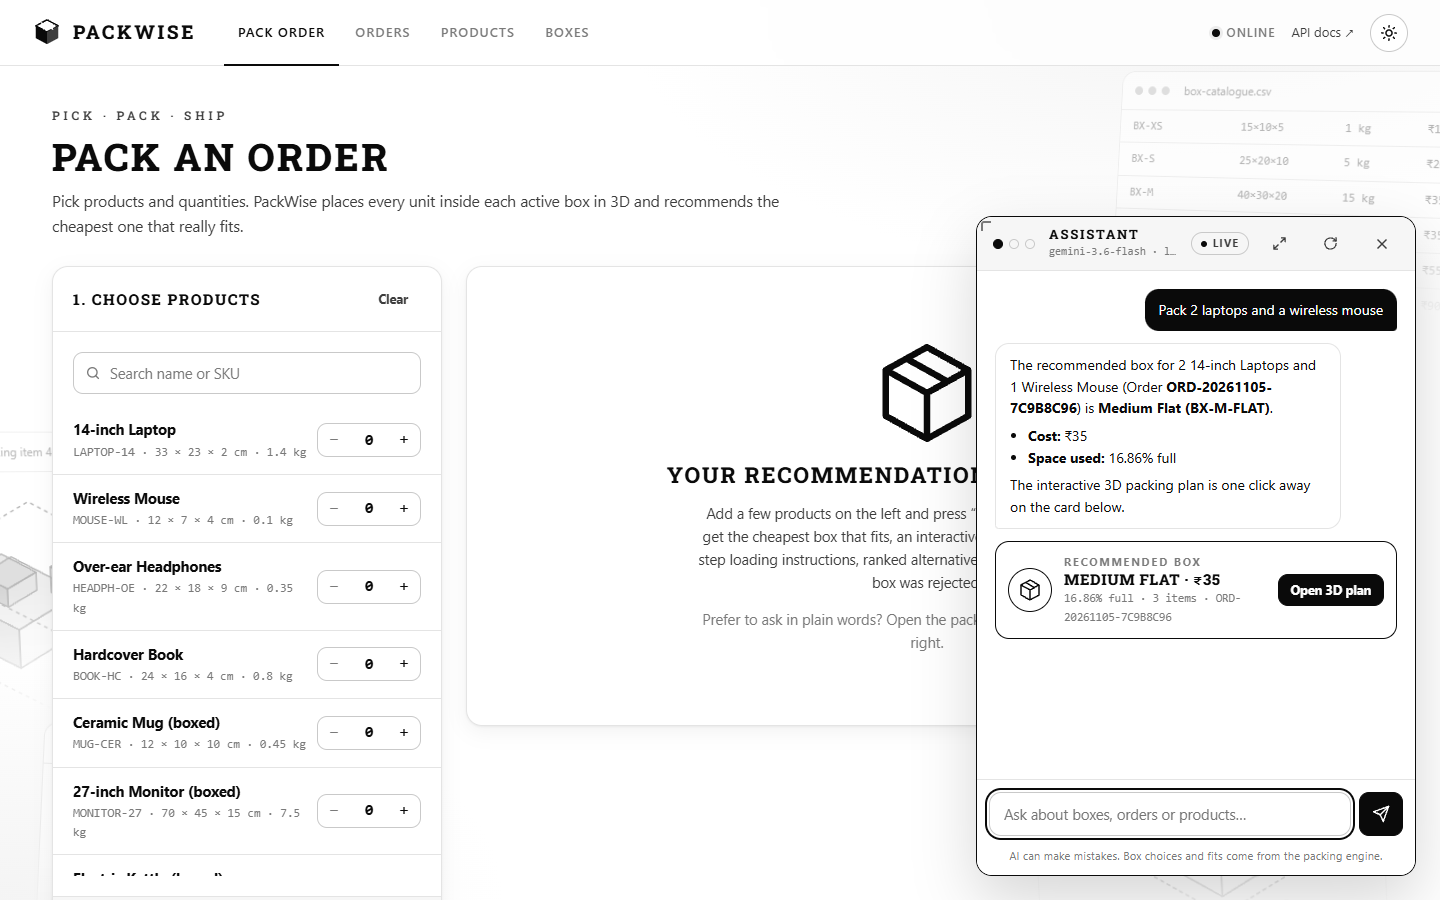
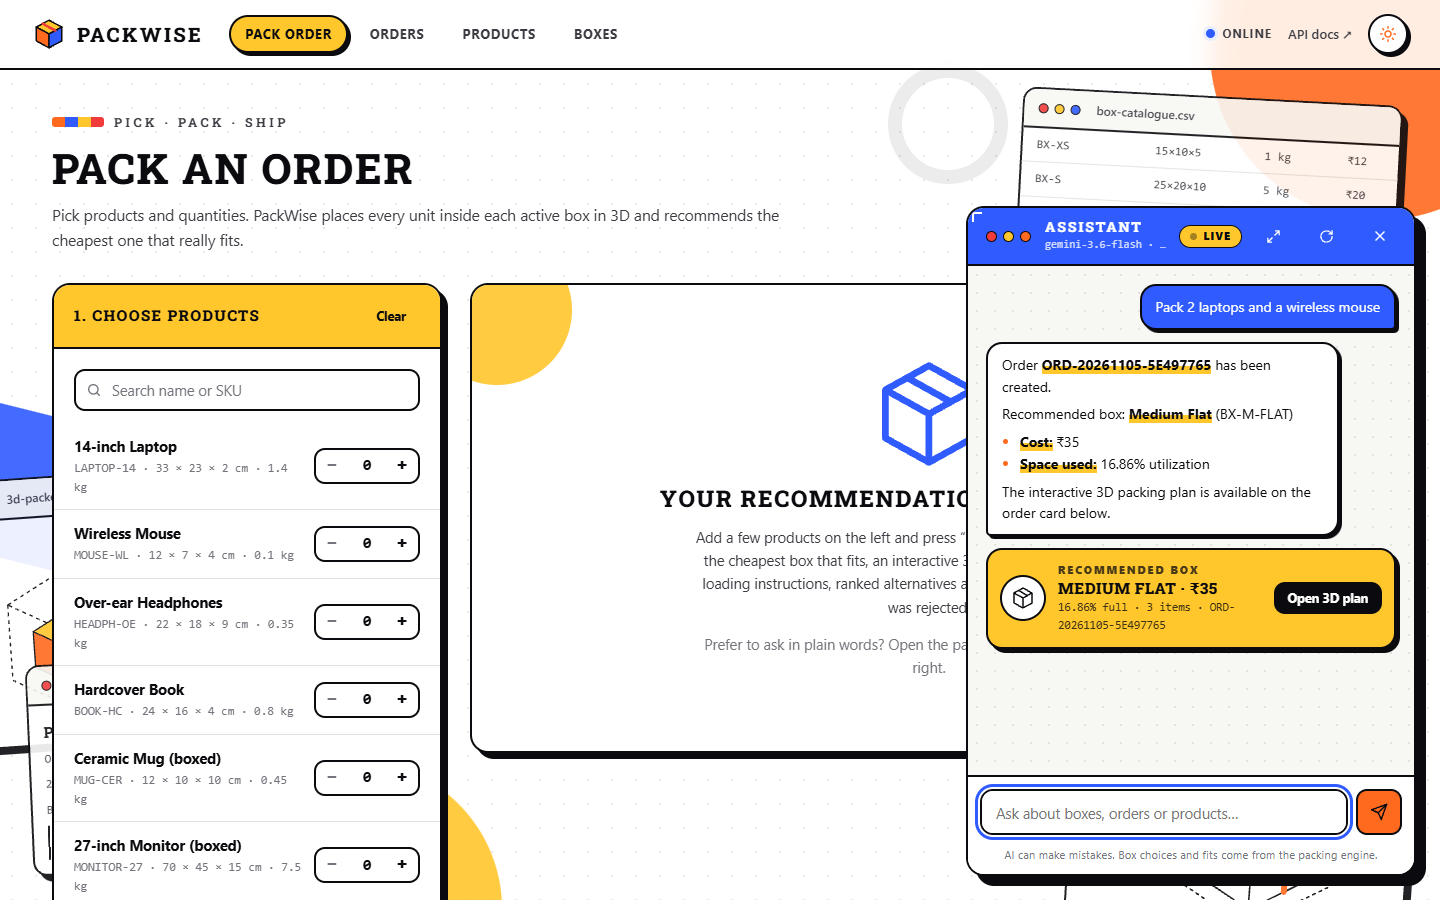
Live colour screenshot of the assistant; CI link in TEST_OUTPUT

Changed region(s): [[0.0, 0.0, 1.0, 1.0], [0.0312, 0.1244, 0.5312, 0.28], [0.1562, 0.56, 0.2188, 0.6222]]

diff --git a/TEST_OUTPUT.md b/TEST_OUTPUT.md
@@ -8,7 +8,7 @@ Real, unedited terminal output. It was captured by redirecting the commands belo
 | Browser end-to-end tests (Playwright, Chrome) | **11 passed**, 0 failed |
 | Branch coverage | **97.9%** overall (packing engine modules 99.0–100.0%) |
 
-**GitHub Actions:** _link added after the CI run_
+**GitHub Actions:** [Tests run 42079574260](https://github.com/SanjayMarathi/PackWise/actions/runs/42079574260): 688 passed on Python 3.12 and 3.14, 11 browser end-to-end tests passed, deployment checklist passed
 
 To reproduce:
 
